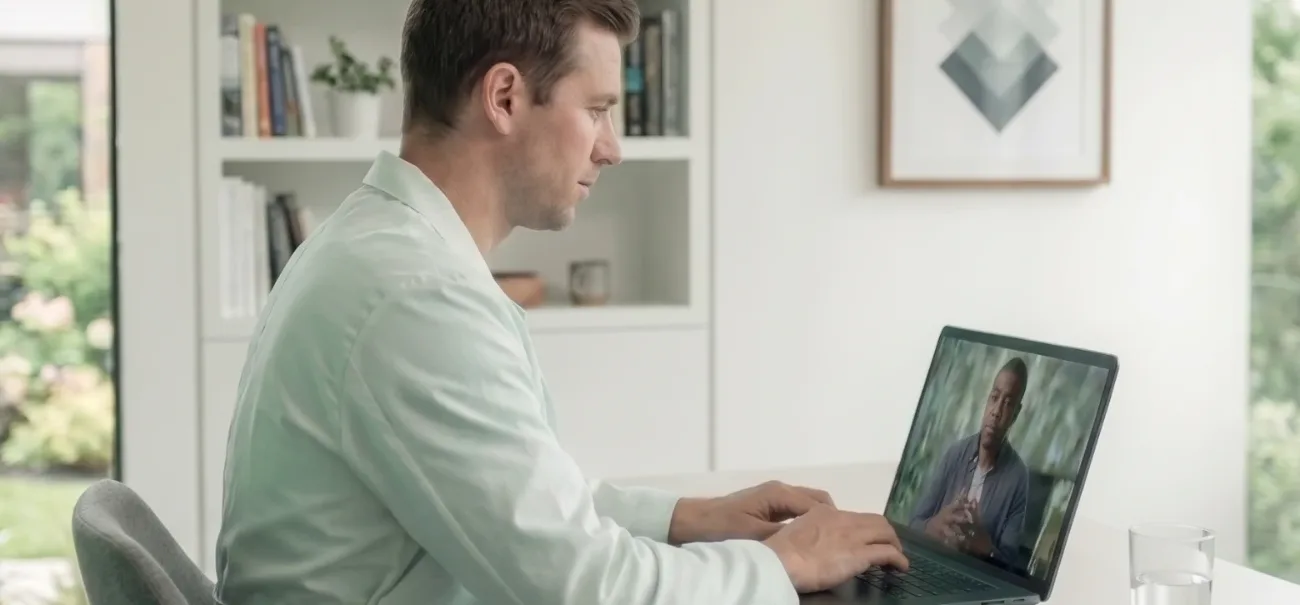
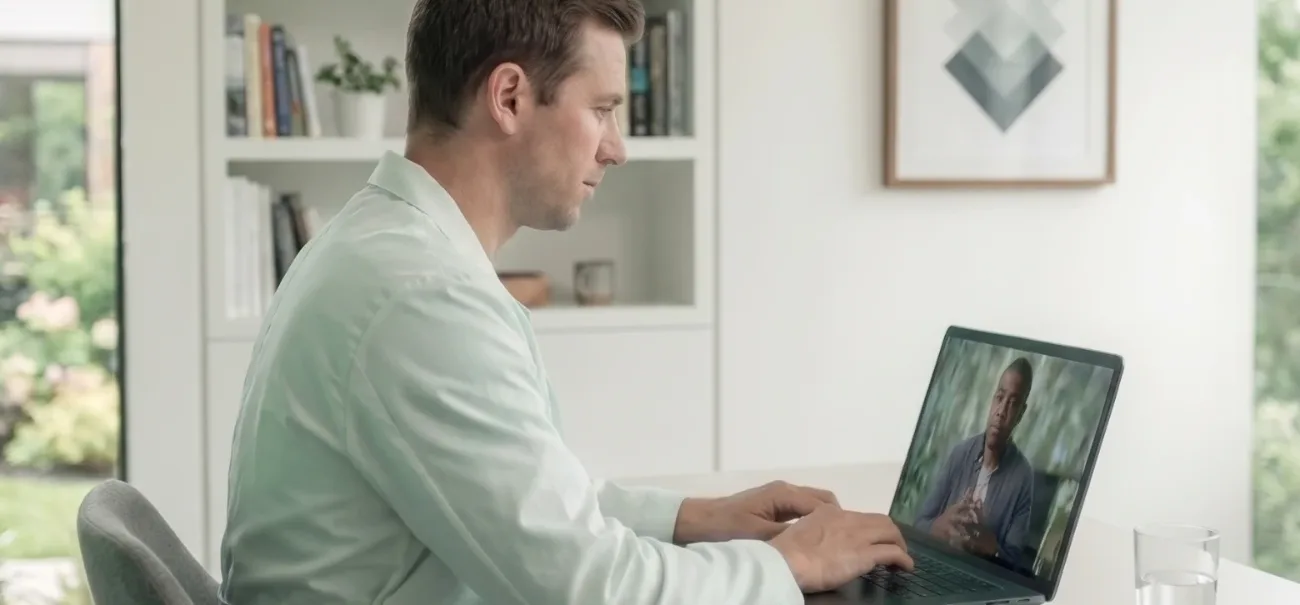
Blog: script dos cards centraliza as pessoas e recortes refeitos

diff --git a/CLAUDE.md b/CLAUDE.md
@@ -179,6 +179,8 @@ Não são preferência de estilo. São critério de aceite.
 - **Avatar fallback de profissional.** O arquivo `/public/assets/professional-avatar-fallback.svg` deve manter o desenho do Figma sem o retângulo técnico externo `fill="#1E1E1E"`, que cria bordas pretas nos cantos arredondados. Ao substituir esse SVG, remover esse retângulo antes de validar ou subir.
 - **Foto de profissional tem duas versões.** A original (1200x1200) serve a página interna; os cards usam a versão `-192.webp` ao lado dela (`lib/foto-pequena.ts`). Ao cadastrar ou trocar foto em `/public/assets`, rodar `node scripts/fotos-pequenas.mjs`, senão o card mostra o avatar fallback.
 
+- **Imagem do blog tem duas versões.** A do topo (`/public/blog/<slug>.webp`, 2:1, ex.: 2400x1200) serve o banner; o card da lista usa o recorte `<slug>-card.webp`, gerado por `node scripts/cards-blog.mjs`. O recorte do card centraliza os elementos centrais (as pessoas) com a mesma distância nas duas laterais: cada guia declara no script o intervalo `sujeito` e o script calcula o corte, nunca se escolhe o x no olho. Guia novo: adicionar a linha em `RECORTES`, rodar, olhar o card e marcar `imagemCard: true` em `lib/guias.ts`.
+
 ---
 
 ## 8. O que não construir no v0
